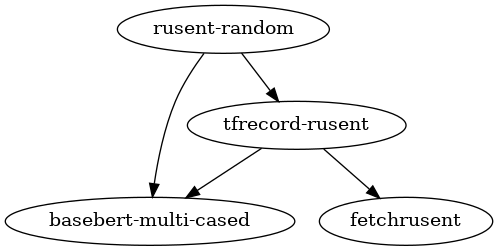
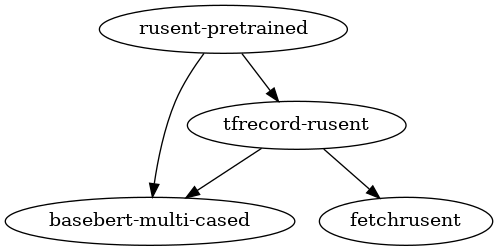
Update rusentiment report

Changed region(s): [[0.1807, 0.0, 0.6928, 0.2231], [0.6928, 0.1116, 0.7229, 0.1394]]

diff --git a/run/rusentiment/out/Report.md b/run/rusentiment/out/Report.md
@@ -53,6 +53,31 @@ def all_multibert_finetune_rusentiment1(m:Manager, lr:Optional[float]=None):
   return redefine(all_multibert_finetune_rusentiment, new_config=_nc)(m) # end1
 ```
 
+Dependency graph of this stage illustrates entities we are going to
+calculate in this experiment:
+
+``` python numberLines
+with prepare_markdown_image('rusent_graph.png') as path:
+  depgraph([all_multibert_finetune_rusentiment1], path)
+```
+
+![](./rusent_graph.png)
+
+Here,
+
+  - `basebert-multi-cased` is a stage which downloads multilingual BERT
+    checkpoint published by Google Research.
+  - `fetchrusent` stage downloads the RuSentiment dataset.
+    Unfortunately, this dataset is no longer available in public, so we
+    are using our private copy.
+  - `tfrecord-rusent` converts the Dataset to the TensorFlow Records
+    format.
+  - `rusent-pretrained` stage creates the BERT model, loads the
+    pretrained checkpoint and performs the fine-tuning on the
+    RuSentiment TFRecords.
+  - Stages mentioned above are declared in the [StagedML top-level
+    collection](https://github.com/stagedml/stagedml/blob/master/src/stagedml/stages/all.py)
+
 We define randomly-initialized BERT by disabling the initialization of
 the default version of the above model:
 
@@ -64,17 +89,7 @@ def all_multibert_finetune_rusentiment0(m:Manager):
   return redefine(all_multibert_finetune_rusentiment1, new_config=_nc)(m) #end0
 ```
 
-Dependency graph of this stage illustrates entities which we are going
-to calculate
-
-``` python numberLines
-with prepare_markdown_image('rusent_graph.png') as path:
-  depgraph([all_multibert_finetune_rusentiment0], path)
-```
-
-![](./rusent_graph.png)
-
-We are going to train models with a number of different learning rates:
+We will train models with a number of different learning rates:
 
 ``` python numberLines
 print(learning_rates)
